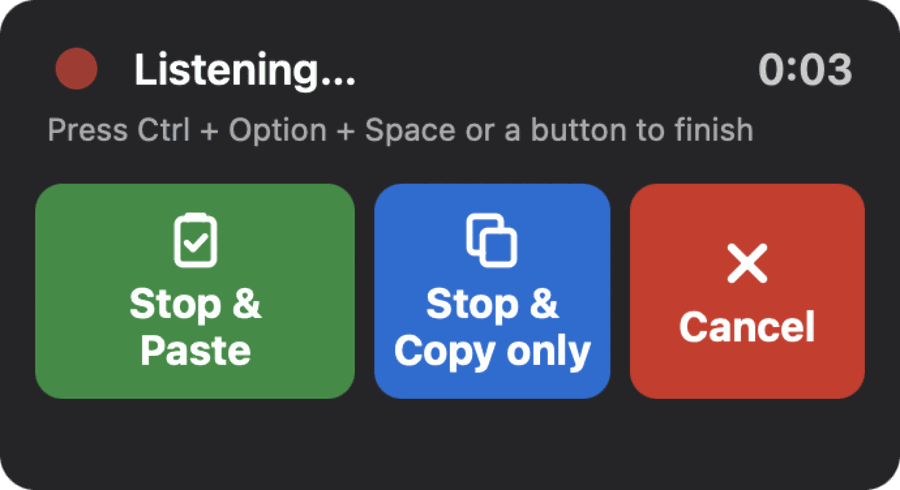
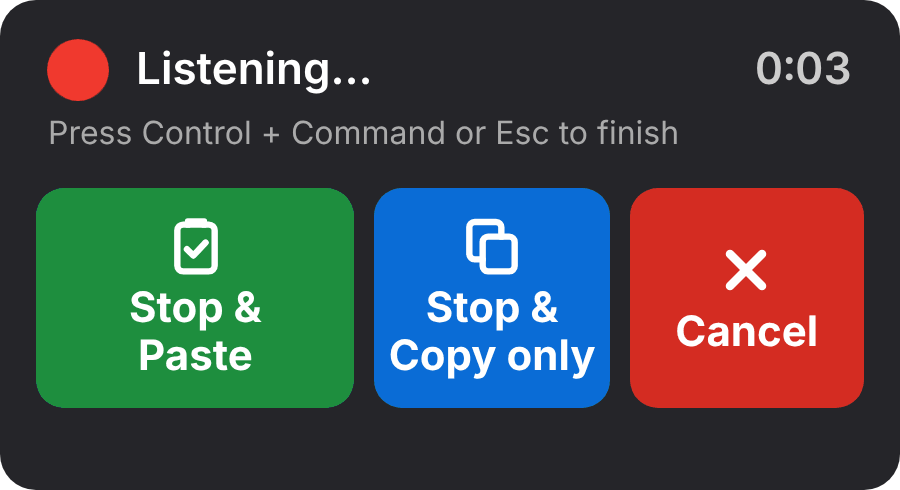
Shorter recording hint; retake recording-card screenshots; fix image descriptions

diff --git a/docs/USAGE.es.md b/docs/USAGE.es.md
@@ -68,7 +68,7 @@ copiar** y **Cancelar**. Muestra un contador y cómo terminar. Arrástrala a don
 (Las capturas de la tarjeta y del botón flotante están en inglés; en tu Mac salen en tu
 idioma.)
 
-<img src="images/recording-card-classic.png" width="450" alt="Tarjeta de grabación en Azul clásico (captura en inglés): Listening con un contador 0:03, la ayuda Press Ctrl + Option + Space or a button to finish, y tres botones grandes: verde Stop and Paste, azul Stop and Copy only, rojo Cancel">
+<img src="images/recording-card-classic.png" width="450" alt="Tarjeta de grabación en Azul clásico (captura en inglés): Listening con un contador 0:03, la ayuda Press Control + Command or Esc to finish, y tres botones grandes: verde Stop and Paste, azul Stop and Copy only, rojo Cancel">
 
 <img src="images/recording-card-studio.png" width="450" alt="La misma tarjeta de grabación con los colores Estudio, con fondo oscuro (captura en inglés)">
 

diff --git a/docs/USAGE.md b/docs/USAGE.md
@@ -65,7 +65,7 @@ If you turn the floating button off, or turn on **Show the recording card too**,
 with three big buttons appears while you dictate: **Stop & Paste**, **Stop & Copy only**
 and **Cancel**. It shows a timer and how to finish. Drag it wherever you like.
 
-<img src="images/recording-card-classic.png" width="450" alt="Recording card in Classic Blue: Listening with a 0:03 timer, the hint Press Control + Option + Space or a button to finish, and three big buttons: green Stop and Paste, blue Stop and Copy only, red Cancel">
+<img src="images/recording-card-classic.png" width="450" alt="Recording card in Classic Blue: Listening with a 0:03 timer, the hint Press Control + Command or Esc to finish, and three big buttons: green Stop and Paste, blue Stop and Copy only, red Cancel">
 
 <img src="images/recording-card-studio.png" width="450" alt="The same recording card in the Studio colors, with a dark background">
 
